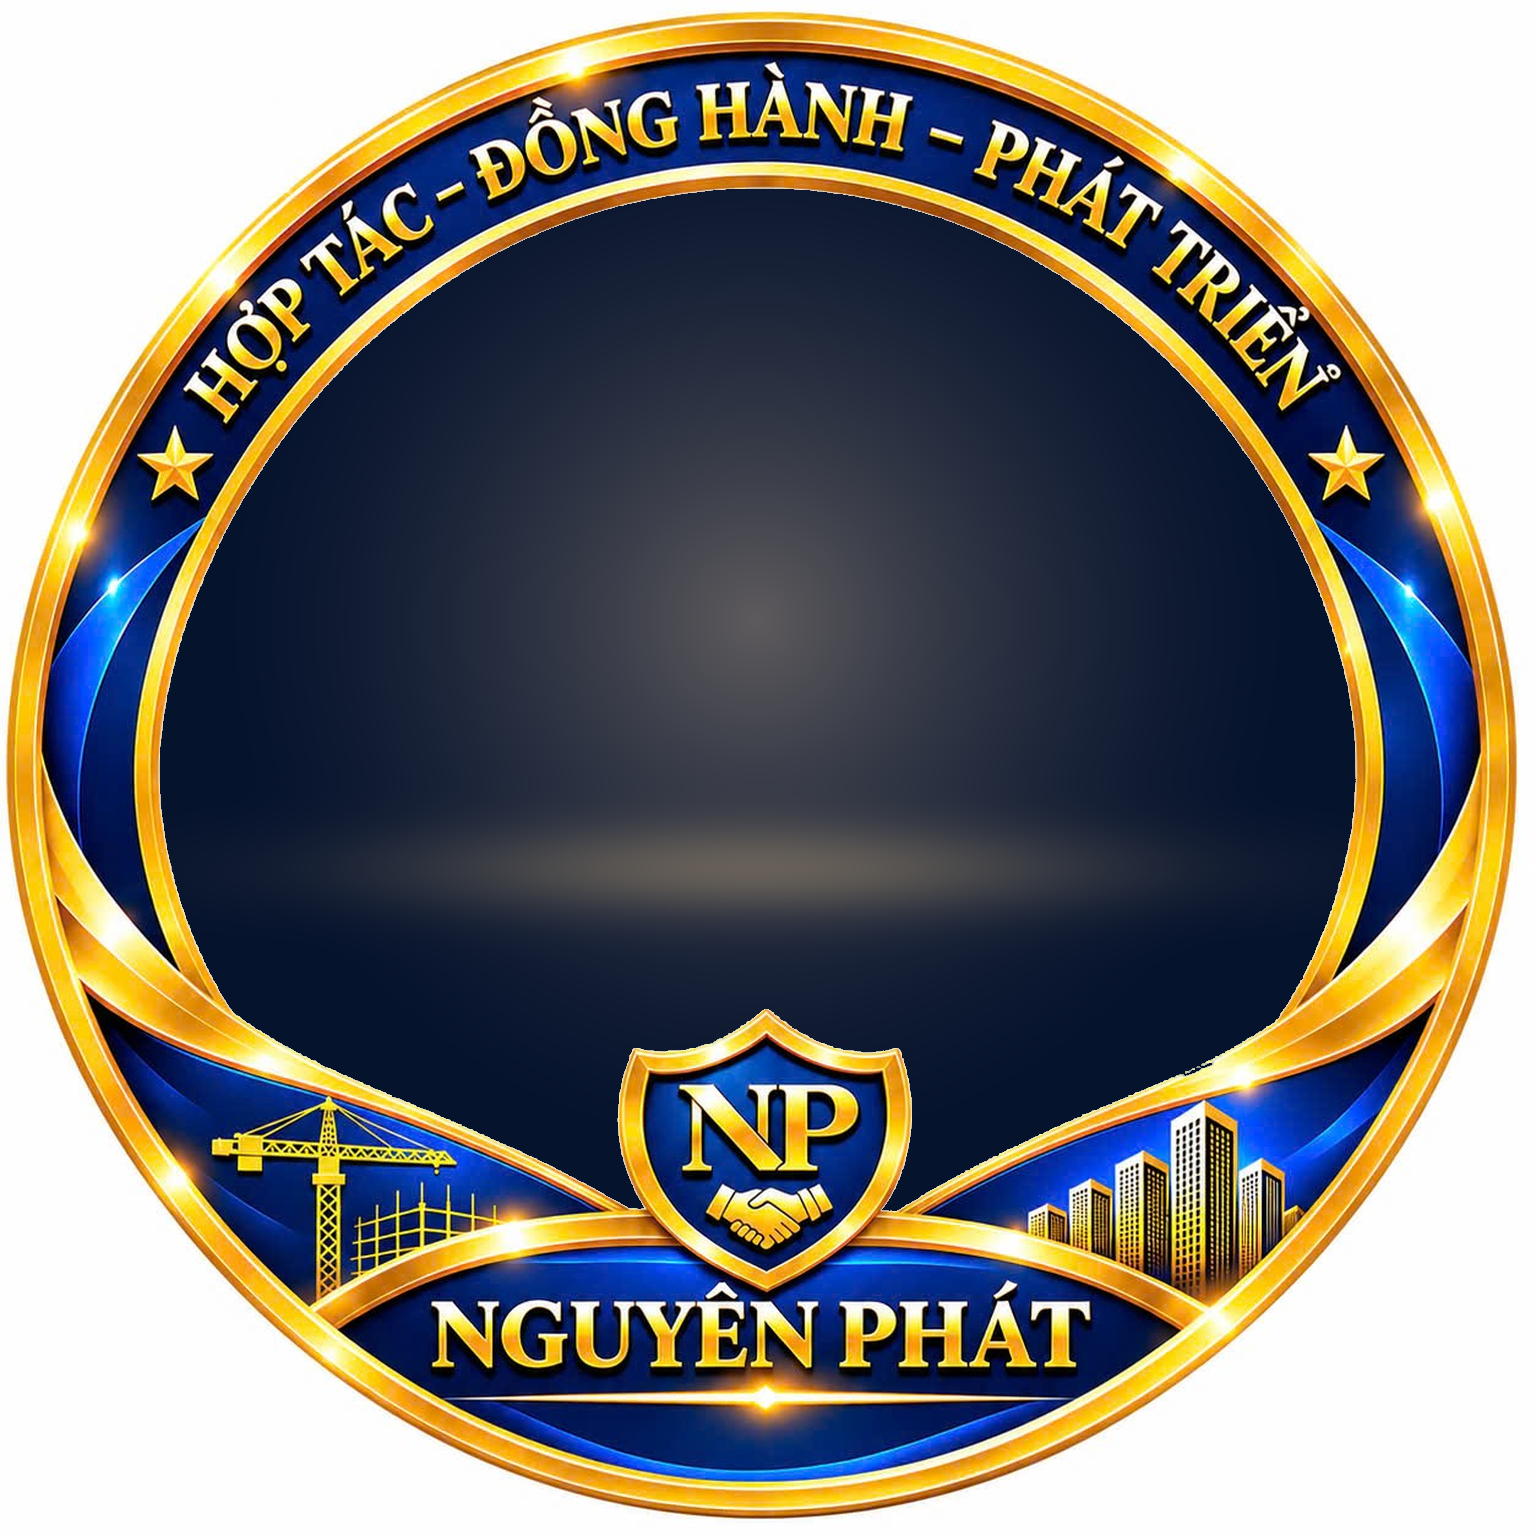
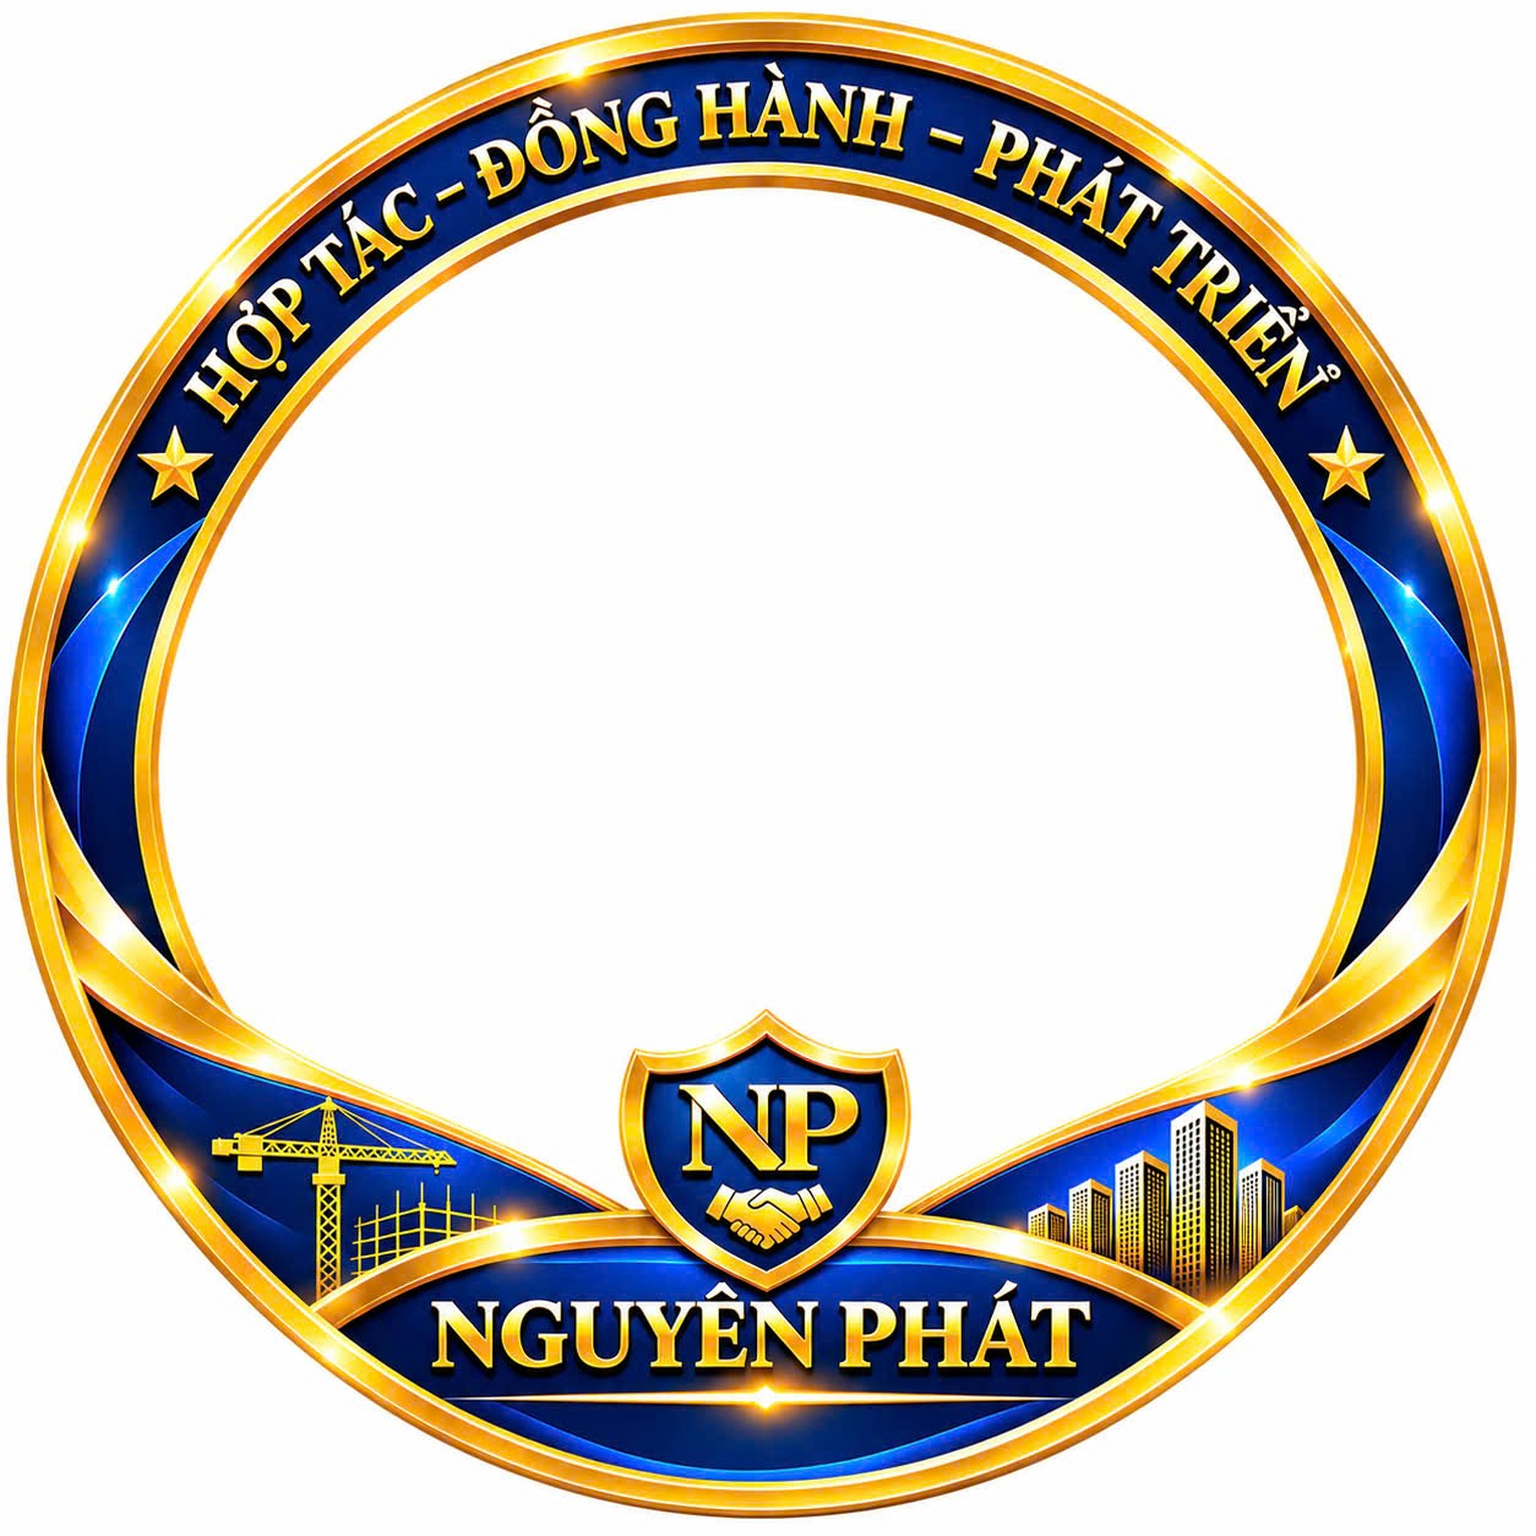
fix: giữ nguyên background trắng cho khung hình Nguyên Phát

diff --git a/public/app.js b/public/app.js
@@ -156,7 +156,8 @@ function render(){
  if(!ready)return;
  ctx.clearRect(0,0,1536,1536);
  ctx.save();
- if(frameOutline)ctx.clip(frameOutline);
+ ctx.fillStyle='#ffffff';
+ ctx.fillRect(0,0,1536,1536);
  ctx.drawImage(base,0,0,1536,1536);
  const cx=758,cy=715,r=610;
  if(portrait){
@@ -222,11 +223,11 @@ function loadImage(url){
 
 base.onload=()=>{frameOutline=traceFrameOutline();ready=true;render()};
 base.onerror=()=>status('Không tải được khung nền. Hãy tải lại trang.');
-base.src='nguyen_phat.png?v=1';
+base.src='nguyen_phat.png?v=2';
 
 overlay.onload=()=>{overlayReady=true;render()};
 overlay.onerror=()=>status('Không tải được lớp khung viền. Hãy tải lại trang.');
-overlay.src='frame-overlay.png?v=1';
+overlay.src='frame-overlay.png?v=2';
 
 const fontLoad=document.fonts?document.fonts.load('700 36px "Noto Serif VN"'):Promise.resolve();
 fontLoad.catch(()=>{}).finally(()=>{fontReady=true;render()});

diff --git a/public/index.html b/public/index.html
@@ -556,6 +556,6 @@ footer{
   </div>
 </div>
 
-<script src="app.js?v=20261122-np2"></script>
+<script src="app.js?v=20261122-np3"></script>
 </body>
 </html>
